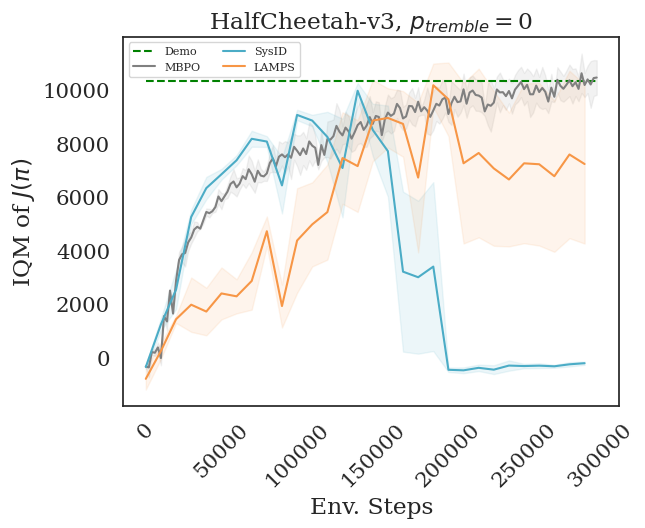
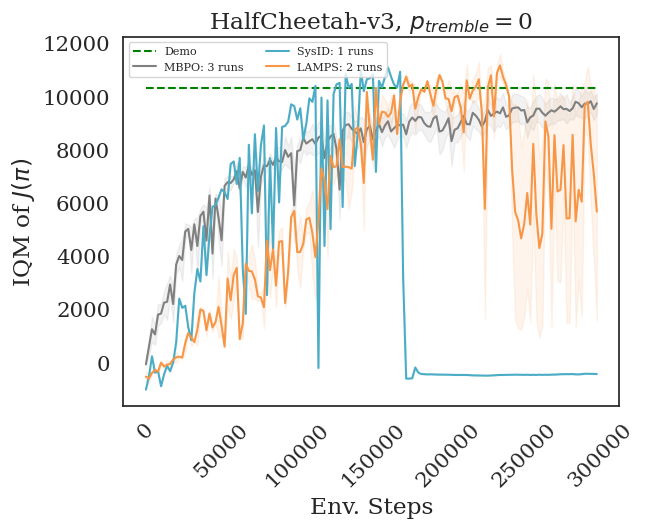
add shaky hands

diff --git a/MujocoSysID/mbrl/util/env.py b/MujocoSysID/mbrl/util/env.py
@@ -15,6 +15,7 @@ import torch
 
 import mbrl.planning
 import mbrl.types
+from mbrl.env.shaky_hands import TremblingHandWrapper
 
 
 def _get_term_and_reward_fn(
@@ -97,6 +98,23 @@ def _legacy_make_env(
         )
 
     env, reward_fn = _handle_learned_rewards_and_seed(cfg, env, reward_fn)
+
+    if cfg.shaky:
+        env_name = cfg.overrides.env.lower()
+        if "ant" in env_name:
+            p_tremble = 0.01
+        elif "cheetah" in env_name:
+            p_tremble = 0.075
+        elif "hopper" in env_name:
+            p_tremble = 0.01
+        elif "humanoid" in env_name:
+            p_tremble = 0.025
+        elif "walker" in env_name:
+            p_tremble = 0.05
+        else:
+            raise ValueError(f"Invalid environment: {env_name}")
+        env = TremblingHandWrapper(env, p_tremble=p_tremble)
+
     return env, term_fn, reward_fn
 
 

diff --git a/MujocoSysID/mbrl/env/shaky_hands.py b/MujocoSysID/mbrl/env/shaky_hands.py
@@ -1,0 +1,30 @@
+import gym
+import numpy as np
+
+
+class PrintColors:
+    HEADER = "\033[95m"
+    OKBLUE = "\033[94m"
+    OKCYAN = "\033[96m"
+    OKGREEN = "\033[92m"
+    WARNING = "\033[93m"
+    FAIL = "\033[91m"
+    ENDC = "\033[0m"
+    BOLD = "\033[1m"
+    UNDERLINE = "\033[4m"
+
+
+class TremblingHandWrapper(gym.Wrapper):
+    def __init__(self, env, p_tremble=0.01):
+        super().__init__(env)
+        self.env = env
+        self.p_tremble = p_tremble
+        print(f"{PrintColors.OKBLUE}{p_tremble=}{PrintColors.ENDC}")
+
+    def reset(self):
+        return self.env.reset()
+
+    def step(self, action):
+        if np.random.uniform() < self.p_tremble:
+            action = self.env.action_space.sample()
+        return self.env.step(action)

diff --git a/MujocoSysID/generate_plots.py b/MujocoSysID/generate_plots.py
@@ -80,7 +80,7 @@ def main(env_abbrv, env_name):
     }
 
     steps = 150
-    sz = 2000
+    sz = 1000
     for alg in algs_to_colors.keys():
         if alg == "exp":
             plt.plot(
